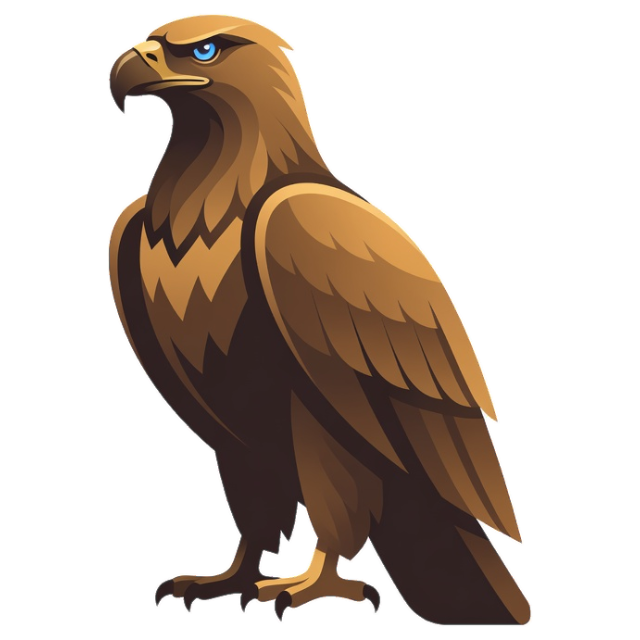
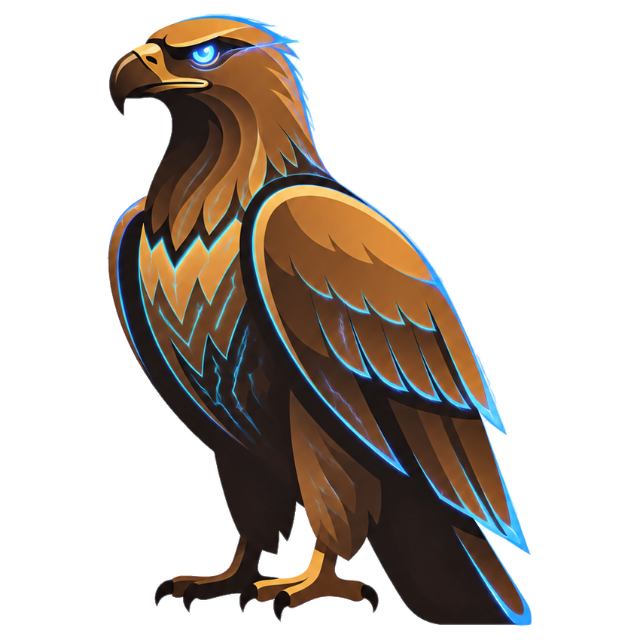
feat(ui): electrify the mascot and give the splash more presence
The eagle now carries his true colors: copper plumage with electric
digital-blue energy — blue edge-light, filaments, and eye — and the
renderer's aura glow moves from gold to the palette's blue so the
energy reads at every mood. Connect splash and lazy loading states
render the mascot at 176px.

Gates: full UI vitest suite 12,798 passed, tsgo, ui:build in budget.

(cherry picked from commit 23ea09645d0fec43cbb0bdd3a088790836e5ba8c)

diff --git a/ui/src/components/mascot-canvas.ts b/ui/src/components/mascot-canvas.ts
@@ -66,7 +66,8 @@ function drawGlow(ctx: CanvasRenderingContext2D, pose: MascotPose, palette: Masc
   }
   const radius = 52 * clamp(pose.glowScale, 0.6, 1.6);
   const glow = ctx.createRadialGradient(60, 62, radius * 0.25, 60, 62, radius);
-  glow.addColorStop(0, palette.gradientTop);
+  // Electric-blue aura: the bird is copper; the energy around him is blue.
+  glow.addColorStop(0, palette.antenna);
   glow.addColorStop(1, "rgba(0, 0, 0, 0)");
   ctx.save();
   ctx.globalAlpha = alpha;

diff --git a/ui/src/app/app-shell-view.ts b/ui/src/app/app-shell-view.ts
@@ -172,7 +172,7 @@ export function renderApplicationShell(host: ShellViewHost) {
   }
   if (host.routeState.routeId === undefined) {
     return html`<main class="connect-splash" role="status" aria-label=${t("common.loading")}>
-      <openclaw-mascot mood="thinking" .size=${120}></openclaw-mascot>
+      <openclaw-mascot mood="thinking" .size=${176}></openclaw-mascot>
     </main>`;
   }
   const gatewaySnapshot = context.gateway.snapshot;

diff --git a/ui/src/components/loading-state.ts b/ui/src/components/loading-state.ts
@@ -10,7 +10,7 @@ export function renderLoadingState() {
       aria-live="polite"
       aria-label=${t("common.loading")}
     >
-      <openclaw-mascot mood="thinking" .size=${120}></openclaw-mascot>
+      <openclaw-mascot mood="thinking" .size=${176}></openclaw-mascot>
     </section>
   `;
 }
